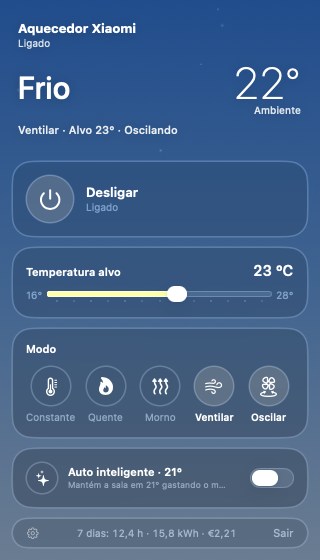
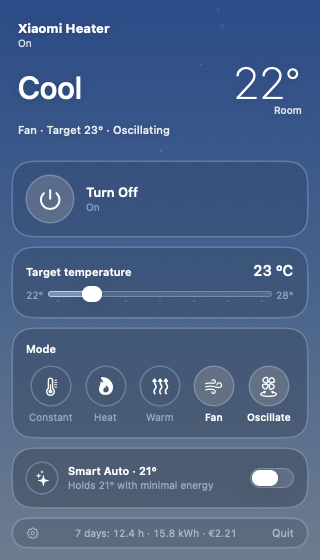
Add English screenshots and shorten Smart Auto subtitle

diff --git a/Sources/MiHeaterBar/MiHeaterBarApp.swift b/Sources/MiHeaterBar/MiHeaterBarApp.swift
@@ -710,7 +710,7 @@ struct AutoModule: View {
 
     private var subtitle: String {
         switch status {
-        case .off: "Holds \(formatTemp(target))° using as little energy as possible"
+        case .off: "Holds \(formatTemp(target))° with minimal energy"
         case .heating(.strong): "Heating fast (Heat)"
         case .heating(.gentle): "Maintaining (Warm)"
         case .paused(let resumeIn?): "Paused · resumes in ~\(max(1, Int((resumeIn / 60).rounded()))) min"

diff --git a/README.pt-BR.md b/README.pt-BR.md
@@ -12,9 +12,11 @@
 [![Local only](https://img.shields.io/badge/cloud-not%20required-2ea44f)](#-privacidade-e-arquivos)
 [![PRs welcome](https://img.shields.io/badge/PRs-welcome-blueviolet)](#-como-contribuir)
 
-<img src="docs/panel-heat.png" width="280" alt="Painel aquecendo no modo Heat">
-&nbsp;&nbsp;
-<img src="docs/panel-fan-dark.png" width="280" alt="Painel no modo ventilador, aparência escura">
+<img src="docs/panel-heat.png" width="250" alt="Painel aquecendo no modo Heat">
+&nbsp;
+<img src="docs/panel-auto-dark.png" width="250" alt="Smart Auto mantendo o alvo no modo Warm, aparência escura">
+&nbsp;
+<img src="docs/panel-fan-dark.png" width="250" alt="Painel no modo ventilador, aparência escura">
 
 </div>
 

diff --git a/README.md b/README.md
@@ -12,9 +12,11 @@
 [![Local only](https://img.shields.io/badge/cloud-not%20required-2ea44f)](#-privacy--files)
 [![PRs welcome](https://img.shields.io/badge/PRs-welcome-blueviolet)](#-contributing)
 
-<img src="docs/panel-heat.png" width="280" alt="Panel heating in Heat mode">
-&nbsp;&nbsp;
-<img src="docs/panel-fan-dark.png" width="280" alt="Panel in fan mode, dark appearance">
+<img src="docs/panel-heat.png" width="250" alt="Panel heating in Heat mode">
+&nbsp;
+<img src="docs/panel-auto-dark.png" width="250" alt="Smart Auto holding the target in Warm mode, dark appearance">
+&nbsp;
+<img src="docs/panel-fan-dark.png" width="250" alt="Panel in Fan mode, dark appearance">
 
 </div>
 
